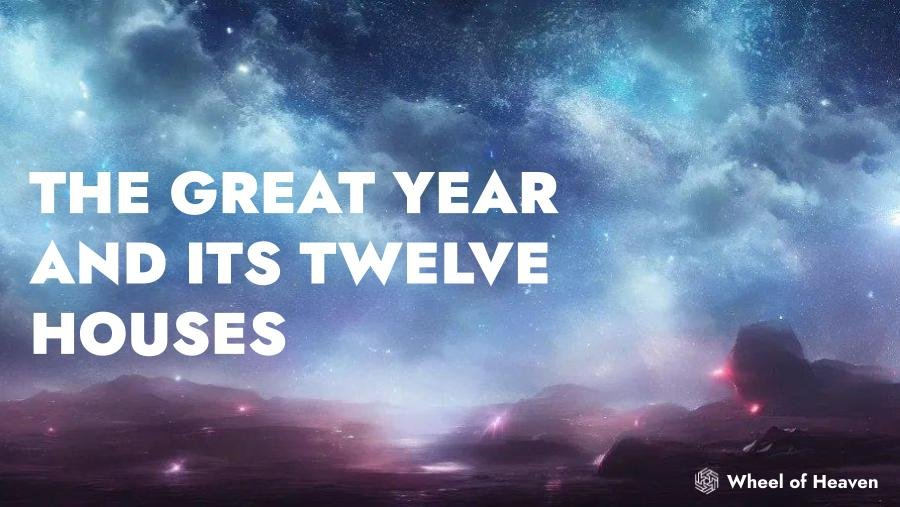
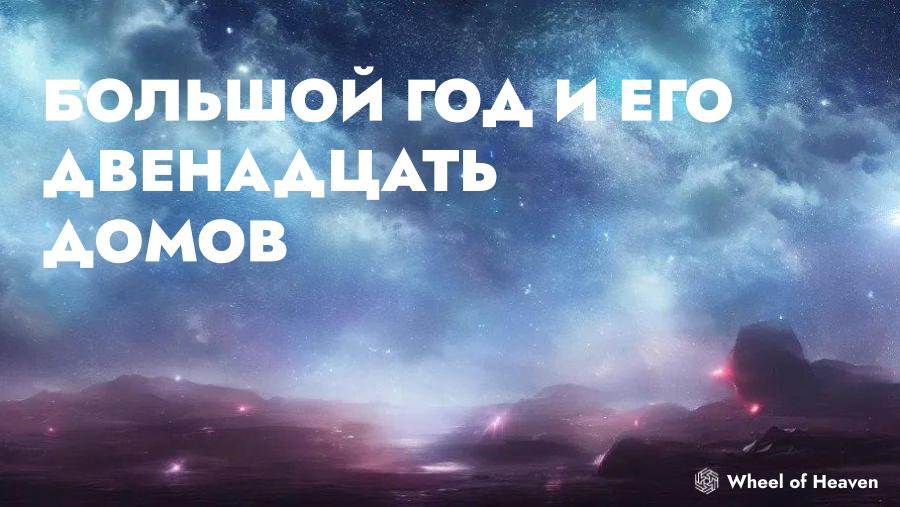
adds i18n translation into Russian of the twelve houses article

Changed region(s): [[0.0311, 0.2959, 0.6222, 0.5621], [0.0311, 0.1183, 0.84, 0.2663], [0.0311, 0.5917, 0.3422, 0.7101]]

diff --git a/content/ru/articles/the-great-year-and-its-twelve-houses/index.md b/content/ru/articles/the-great-year-and-its-twelve-houses/index.md
@@ -1,70 +1,92 @@
 ---
-title: "The Great Year and Its Twelve Houses"
-description: "The third key motion of the Earth next to the other two cycles responsible for the day and the year is what is known as the Great Year. Its cycle, also called the precession of the equinoxes, lasts 25'920 years. By dividing that cycle in 12 houses of 2’160 years each, you would be given the key to understand the purpose of the zodiac being a time marker. This knowledge is ancient and its remnants are known today as astrology."
-excerpt: "The third key motion of the Earth next to the other two cycles responsible for the day and the year is what is known as the Great Year. Its cycle, also called the precession of the equinoxes, lasts 25'920 years. By dividing that cycle in 12 houses of 2’160 years each, you would be given the key to understand the purpose of the zodiac being a time marker. This knowledge is ancient and its remnants are known today as astrology."
+title: "Большой год и его двенадцать Домов"
+description: "Третье ключевое движение Земли, помимо двух циклов, ответственных за сутки и год, называется Большим годом. Его цикл, также известный как прецессия равноденствий, длится 25 920 лет. Разделив этот цикл на двенадцать домов по 2 160 лет в каждом, вы получите ключ к пониманию зодиака как временного маркера. Это знание древнее, и его остатки известны сегодня как астрология."
+excerpt: "Третье ключевое движение Земли, помимо двух циклов, ответственных за сутки и год, называется Большим годом. Его цикл, также известный как прецессия равноденствий, длится 25 920 лет. Разделив этот цикл на двенадцать домов по 2 160 лет в каждом, вы получите ключ к пониманию зодиака как временного маркера. Это знание древнее, и его остатки известны сегодня как астрология."
 date: 2023-07-07T00:00:00+00:00
 lastmod: 2023-07-07T00:00:00+00:00
 draft: false
 weight: 50
 images: ["the-great-year-and-its-twelve-houses.jpg"]
-categories: ["Context"]
-tags: ["age-of-aquarius", "the-great-awakening", "archeoastronomy"]
-contributors: ["Zara Zinsfuss"]
+categories: ["Контекст"]
+tags: ["эра водолея", "великое пробуждение", "археоастрономия"]
+contributors: ["Зара Цинсфусс"]
 pinned: false
 homepage: false
 ---
 
-{{< alert icon="👉" text="Disclaimer: This is a revisited and slightly reworked article taken from an unmaintained blog of Zara Zinsfuss, a main contributor of Wheel of Heaven. The original blog article can still be visited on his Gitlab Pages website: <a href='https://zarazinfuss.gitlab.io/blog/posts/the-great-year-and-its-twelve-houses/'>The Great Year and Its Twelve Houses | zara◇zinsfuss</a>" />}}
+{{< alert icon="👉" text="Отказ от ответственности: Это переработанная и слегка доработанная статья из не поддерживаемого блога Зары Цинсфусс, основного автора Wheel of Heaven. Оригинальную статью из его веб-сайта на Gitlab Pages можно посмотреть здесь: <a href='https://zarazinfuss.gitlab.io/blog/posts/the-great-year-and-its-twelve-houses/'>The Great Year and Its Twelve Houses | zara◇zinsfuss</a>" />}}
 
-## The Great Year
+## Большой год
 
-Whenever we want to understand our place in the universe, we gaze into the deep night sky, losing ourselves in the myriad of stars within our sight. It seems that the cosmic activities unfolding above us make up a grand narrative, of which we, the inhabitants of planet Earth, are merely a subscene.
+Когда мы хотим понять наше место во Вселенной, мы глядим в глубокое ночное небо, теряясь во множестве звезд перед нашим взором. Кажется, что космические события, разворачивающиеся над нами, составляют великую повесть, в которой мы, обитатели планеты Земля, всего лишь малая часть.
 
-Thus, it's natural for any Earthly dweller to initiate inquiries about their location and significance in relation to the vast expanse of space and time.
+Таким образом, естественно, что любой житель Земли задает вопросы о своем местонахождении и значимости в отношении обширного пространства и времени.
 
-Our celestial understanding begins with acknowledging the **three key motions** of our planet Earth:
+Наше понимание космоса начинается с признания **трех ключевых движений** нашей планеты Земля:
 
-1. Rotation around its axis
-2. Revolution around the Sun
-3. Precession of its axis
+1. Вращение вокруг своей оси
+2. Обращение вокруг Солнца
+3. Прецессия своей оси
 
-The first two motions are intrinsically part of our daily life as we experience their effects in tangible ways. However, the third motion, which will be our primary focus, is less remembered despite its significance. All three motions exhibit recurrent patterns, repeating over time, forming cycles each with a specific duration or **period**.
+Первые два движения являются неотъемлемой частью нашей повседневной жизни, поскольку мы ощущаем их влияние на практике. Однако третье движение, которое будет нашим основным фокусом, менее известно, несмотря на его важность. Все три движения проявляются в повторяющихся паттернах, повторяющихся со временем и образующих циклы с определенной продолжительностью или **периодом**.
 
-| Earthly Motion | Period (approx.) | Common name |
+| Земное движение | Период (прибл.) | Общее название |
 | -              | -                | -           |
-| (1) Rotation   | 24 [h]           | Day / Night |
-| (2) Revolution | 365 [d]          | Year        |
-| (3) Precession | 26'000 [y]       | Great Year  |
+| (1) Вращение   | 24 [ч]           | День / Ночь |
+| (2) Обращение | 365 [д]          | Год        |
+| (3) Прецессия | 26 000 [л]       | Большой год  |
 
-The day-night cycle (1) is a result of the Earth's rotation and impacts life significantly. For practical purposes, we divide a day into two equal segments of `12 hours`, aligning with the [Circadian rhythm](https://en.wikipedia.org/wiki/Circadian_rhythm) that regulates wakefulness and sleep for many mammals, including humans.
+Сутки (1) - это результат вращения Земли и имеют существенное влияние на жизнь. Для практических целей мы делим сутки на две равные части по `12 часов`, соответствующие [суточному ритму](https://ru.wikipedia.org/wiki/Суточный_ритм), который регулирует бодрствование и сон для многих млекопитающих, включая людей.
 
-The second cycle, the year (2), is observable through the changing seasons of spring, summer, autumn, and winter, especially in higher and lower latitudes. We typically divide the solar year into twelve parts, or **months**, each approximately `30.5 days` long.
+Второй цикл - год (2) - наблюдается через смену времен года: весна, лето, осень и зима, особенно в более высоких и низких широтах. Мы обычно делим солнечный год на двенадцать частей, или **месяцев**, каждый примерно по `30,5 дня` в длину.
 
-The lunar cycle, though not covered in detail here, is interesting to note. It occurs almost precisely 13 times in a year, with each **lunar month** lasting slightly over `28 days`. This divergence between lunar and solar years leads to interesting questions regarding our calendar system.
+Столь же интересно отметить и лунный цикл. Он происходит примерно 13 раз в году, и каждый **лунный месяц** длится чутьболее `28 дней`. Это расхождение между лунным и солнечным годами порождает интересные вопросы относительно нашей календарной системы.
 
-The third cycle, lesser-known yet equally significant, is the Earth's **axial precession** or **precession of the equinoxes**. Known also as **the Great Year** (3), it takes between `25,772` and `25,920 years` to complete a full cycle.
+Третий цикл, менее известный, но так же значимый, это **осевая прецессия Земли** или **прецессия равноденствий**. Известный также как **Большой год** (3), этот цикл занимает от `25 772` до `25 920 лет` для завершения полного оборота.
 
-[Precession]({{< relref "wiki/encyclopedia/precession.md" >}}) is a complex motion, difficult to describe without visual aids. For context, to show that we're not making this up, let's look at [Merriam-Webster](https://www.merriam-webster.com/dictionary/precession) and how they define it the notion of precession:
+[Прецессия]({{< relref "wiki/encyclopedia/precession.md" >}}) является сложным движением, которое сложно описать без визуальной помощи. Чтобы показать, что мы не придумываем это, давайте взглянем на [Merriam-Webster](https://www.merriam-webster.com/dictionary/precession) и то, как они определяют понятие прецессии:
 
-> a comparatively slow gyration of the rotation axis of a spinning body about another line intersecting it so as to describe a cone[^merriam]
+> относительно медленное вращение оси вращающегося тела вокруг другой линии, пересекающей ее, так что оно описывает конус[^merriam]
 
-In the case of planets such as Earth, one needs to specify that ones means the so-called precession of the equinoxes. Britannica defines the precession of the equinoxes as follows:
+В случае планет, таких как Земля, необходимо указать, что мы имеем в виду так называемую прецессию равноденствий. Britannica определяет прецессию равноденствий следующим образом:
 
-> ... motion of the equinoxes along the ecliptic (the plane of Earth’s orbit) caused by the cyclic precession of Earth’s axis of rotation.[^britannica]
+> ... движение равноденствий вдоль эклиптики (плоскость орбиты Земли), вызванное циклической прецессией оси вращения Земли.[^britannica]
 
-The following figure elucidates axial precession, depicting the Earth's rotation axis **gyrating** in a circular pattern:
+Следующая фигура поясняет осевую прецессию, изображая ось вращения Земли **вращающуюся** по круговой траектории:
 
-{{< figure src="images/precession_schema.jpg" caption="Fig. 1 - Axial precession" >}}
+{{< figure src="images/precession_schema.jpg" caption="Рис. 1 - Осевая прецессия" >}}
 
-The direction of precession (circular arrow at the top) counteracts the Earth's rotational spin (circular arrows around the globe). These conflicting rotations produce a peculiar dance in our heavens. For an Earth-bound observer, this means the daily dance of the sky against the constellations counterpoints the slow waltz due to precession across its `25,920-year` cycle.
+Направление прецессии (круговая стрелка сверху) противодействует вращению Земли (круговые стрелки вокруг глобуса). Эти противоречивые вращения создают особый танец в нашем небе. Для наблюдателя на Земле это означает, что ежедневный танец неба вместе со звездными созвездиями контрастирует с медленным вальсом прецессии в течение ее `25 920-летнего` цикла.
 
-The implications of this precession are immense and serve as the bedrock of our understanding of time and astrological ages. As we journey through the Great Year, the backdrop of the stars shifts gradually. This cosmic shift, though imperceptible within a human lifespan, has profound implications over thousands of years.
+Влияние этой прецессии огромно и является основой нашего понимания времени и астрологических эпох. Путешествуя через Большой год, фон звезд постепенно меняется. Это космическое изменение, хотя и неощутимое в течение человеческой жизни, имеет глубокие последствия на протяжении тысячелетий.
 
-In the next section, we'll delve deeper into these ramifications, unravelling the astrological epochs that punctuate our celestial journey through the Great Year and their impact on our sociocultural evolution.
+В следующем разделе мы углубимся в эти последствия, раскрывая астрологические эпохи, которые характеризуют наше небесное путешествие через Большой год и их влияние на наш социокультурный эволюционный процесс.
 
-[^merriam]: Merriam-Webster is a reputable and widely recognized American publisher known for producing dictionaries and reference books. According to their definition, precession refers to the slow gyration of a spinning body's rotation axis around another intersecting line, creating a cone-like motion. It is characterized by a gradual rotation that forms a cone shape over time. See here for more: [precession (noun) | Merriam-Webster](https://www.merriam-webster.com/dictionary/precession)
+[^merriam]: Merriam-Webster - известное и широко признанное американское издательство, известное своими словарями и справочными изданиями. Согласно их определению, прецессия - это медленное вращение оси вращающегося тела вокруг пересекающей линии, создающее конусообразное движение. Оно характеризуется постепенным вращением, образуя конусообразную форму со временем. Подробнее см. здесь: [precession (noun) | Merriam-Webster](https://www.merriam-webster.com/dictionary/precession)
 
-[^britannica]: The precession of the equinoxes refers to the cyclic motion of the equinox points along Earth's orbital plane caused by the gradual shift in Earth's axis of rotation, as explained by Britannica, a renowned and authoritative encyclopedia publisher that provides comprehensive and reliable information on a wide range of subjects. See here for more: [precession of the equinoxes | Britannica](https://www.britannica.com/science/precession-of-the-equinoxes)
+[^britannica]: Прецессия равноденствий - это циклическое движение точек равноденствий вдоль плоскости орбиты Земли, вызванное плавным изменением оси вращения Земли, как объясняет Britannica - авторитетное источник, предоставляющий всестороннюю и достоверную информацию по широкому спектру тем. Подробнее см. здесь: [precession of the equinoxes | Britannica](https://www.britannica.com/science/precession-of-the-equinoxes)
+
+## Двенадцать Домов
+
+С пониманием [трех ключевых движений Земли](#the-great-year) мы признаем, что эти небесные ритмы обеспечивают сложную систему отсчета времени. Эти циклические движения обладают несколькими интересными характеристиками:
+
++ **Определенная периодичность**: Эти движения, неизменные человеческим вмешательством, изображают повторяющуюся космическую хореографию, возвращающуюся к одному и тому же образцу в ритмическом цикле, который обязательно начинается заново, когда завершается.
++ **Постоянство временного интервала**: Благодаря этой врожденной периодичности мы можем ожидать точно такого же временного интервала для данного цикла. Это обеспечивает степень предсказуемости и надежности, несравнимую с созданными человеком системами.
++ **Мелкозернистость**: Естественное разделение полного цикла предоставляет более мелкие, отдельные единицы времени, позволяющие воспринимать время порциями, а не ошеломляющими, непрерывными промежутками.
+
+Эти гармоничные космические ритмы обладают глубоким чувством тайны и величия, превосходящим нашу типичную человеческую перцепцию. Таким образом, использование этих небесных движений как основы для отсчета времени становится интуитивно привлекательным, особенно потому, что все три движения имеют интервалы, которые идеально дополняют друг друга.
+
+Сутки, продукт вращения Земли, становятся удобной единицей для отсчета года, который, в свою очередь, исходя из вращения Земли вокруг Солнца, предлагает осуществимую меру огромности Большого года, являющегося результатом прецессии.
+
+Это взаимосвязывание временных масштабов приводит к интересному шаблону: деление циклов вращения и обращения на **12 единиц** каждый. Это деление, хотя и кажется произвольным, имеет глубокие последствия, когда оно применяется к циклу прецессии или **Большому году**.
+
+Разделение **Большого года** на двенадцать дает начало новой единице времени: Великому Месяцу, каждый из которых охватывает потрясающие `2 160 лет`. Эта единица воплощает огромный промежуток времени, превосходящий наш обычный год и предоставляющий меру для временных промежутков, пересекающих порог тысячелетий.
+
+Концепция [Великого Месяца]({{< relref "wiki/encyclopedia/great-month.md" >}}) предлагает более крупную временную рамку, охватывающую восхождение и падение цивилизаций, эволюцию культур и идей, а также прогресс научного понимания. Она дает нам перспективу времени, которая выходит за рамки нашего личного или даже исторического опыта, проникая в масштабы, которе мы обычно сохраняем для геологических или астрономических событий.
+
+Как ежедневные и ежегодные циклы являются неотъемлемой частью нашего понимания времени, Великий Месяц может оказаться неотъемлемым инструментом для понимания долгосрочных тенденций и циклов. С развитием наших знаний о нашей (древней) истории, устройстве планеты Земля и астрономических закономерностях мы можем обнаружить, что концепция Великого Месяца помогает нам понять шаблоны и события, охватывающие тысячелетия, обеспечивая более широкий контекст для понимания нашего места во Вселенной.
+
+Эта более широкая система времени, предоставленная двенадцатью домами Великого Года, каждый из которых представляет Великий Месяц, позволяет нам охватить огромные временные промежутки, которые иначе кажутся непостижимыми. Это космический календарь, который помещает наше преходящее существование в великую хронику вселенной.
 
 ## The Twelve Houses
 
